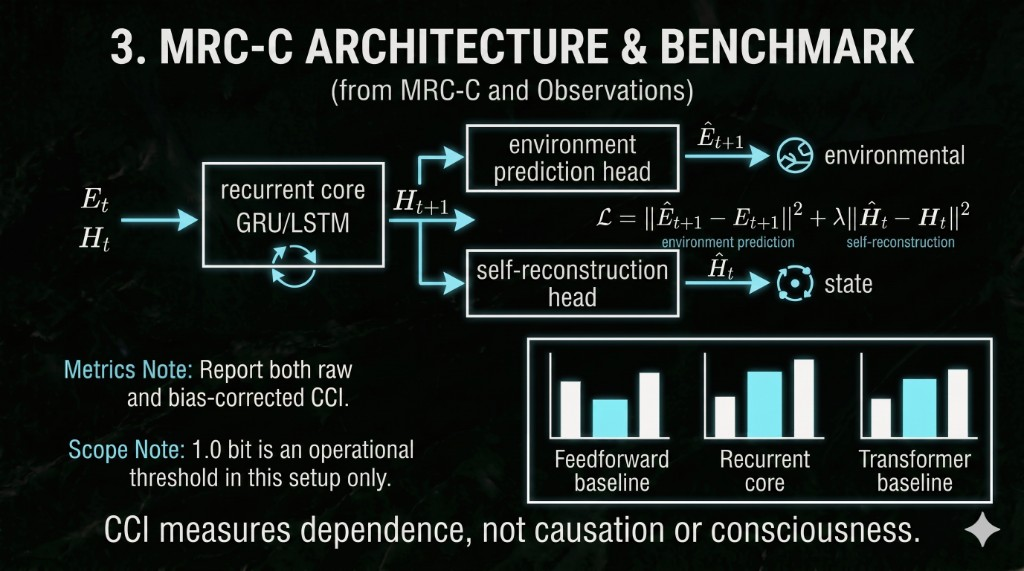
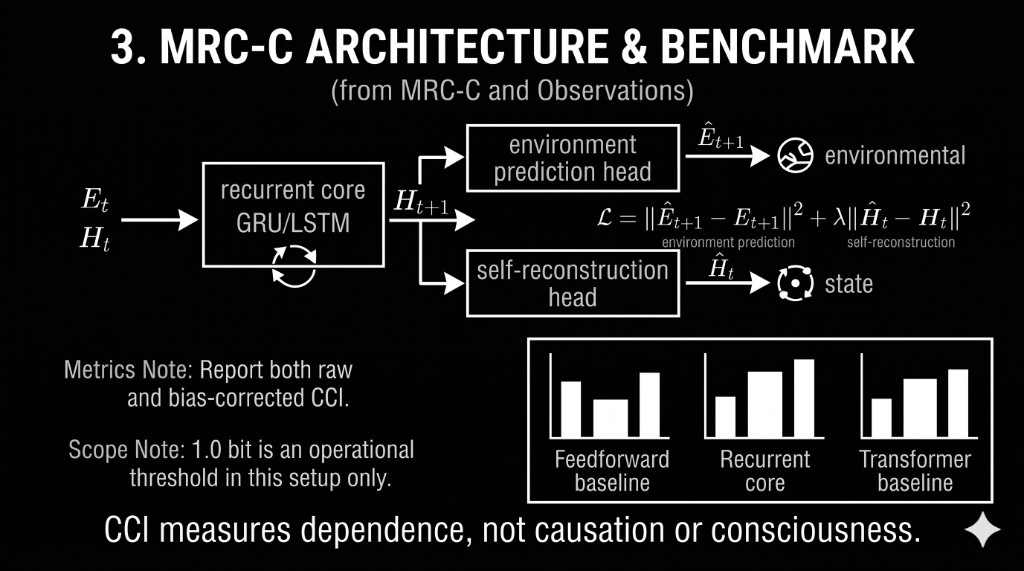
assets: replace visual set with clean no-watermark versions
Made-with: Cursor

diff --git a/docs/assets.md b/docs/assets.md
@@ -1,0 +1,7 @@
+# Assets Note
+
+Visual assets in `assets/` are conceptual and illustrative figures for
+communication and navigation.
+
+These images do not constitute empirical proof claims. Empirical evidence comes
+from metric outputs in `results/` and interpretation boundaries in `CLAIMS.md`.